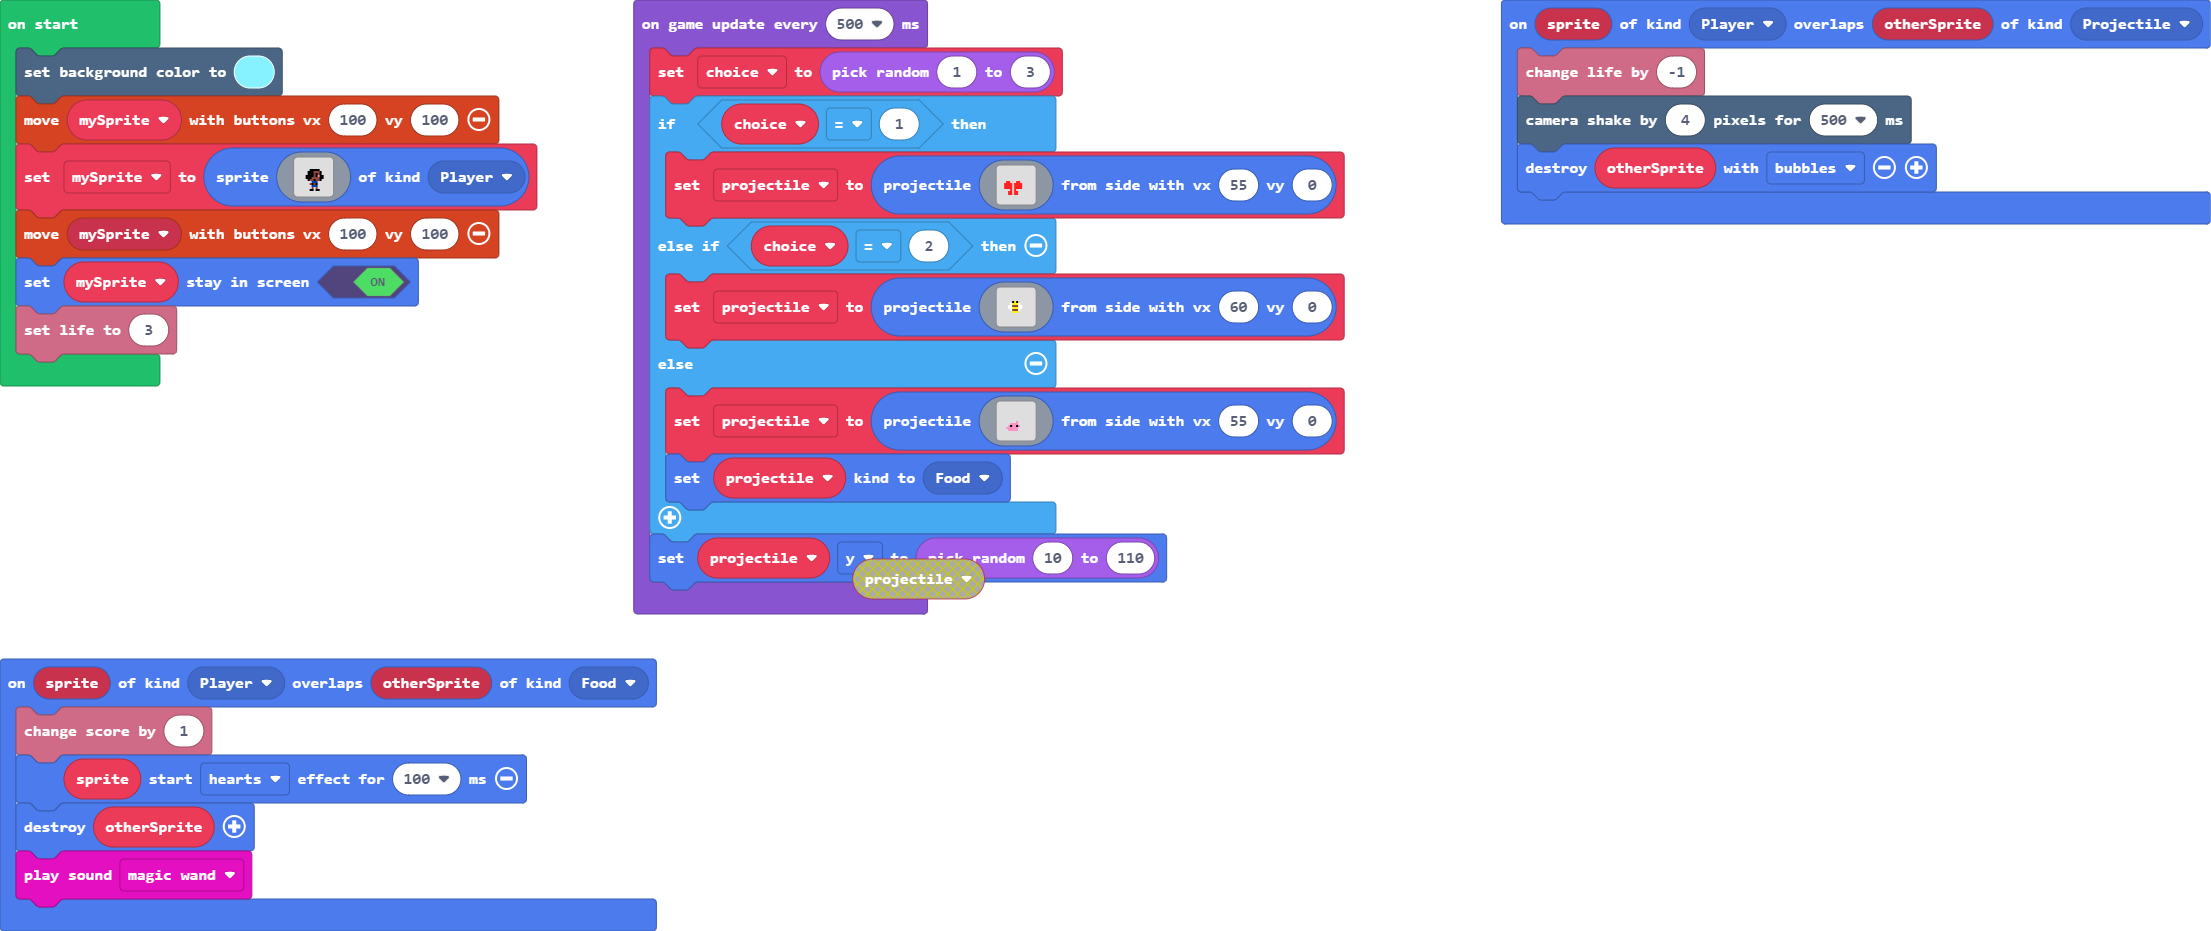
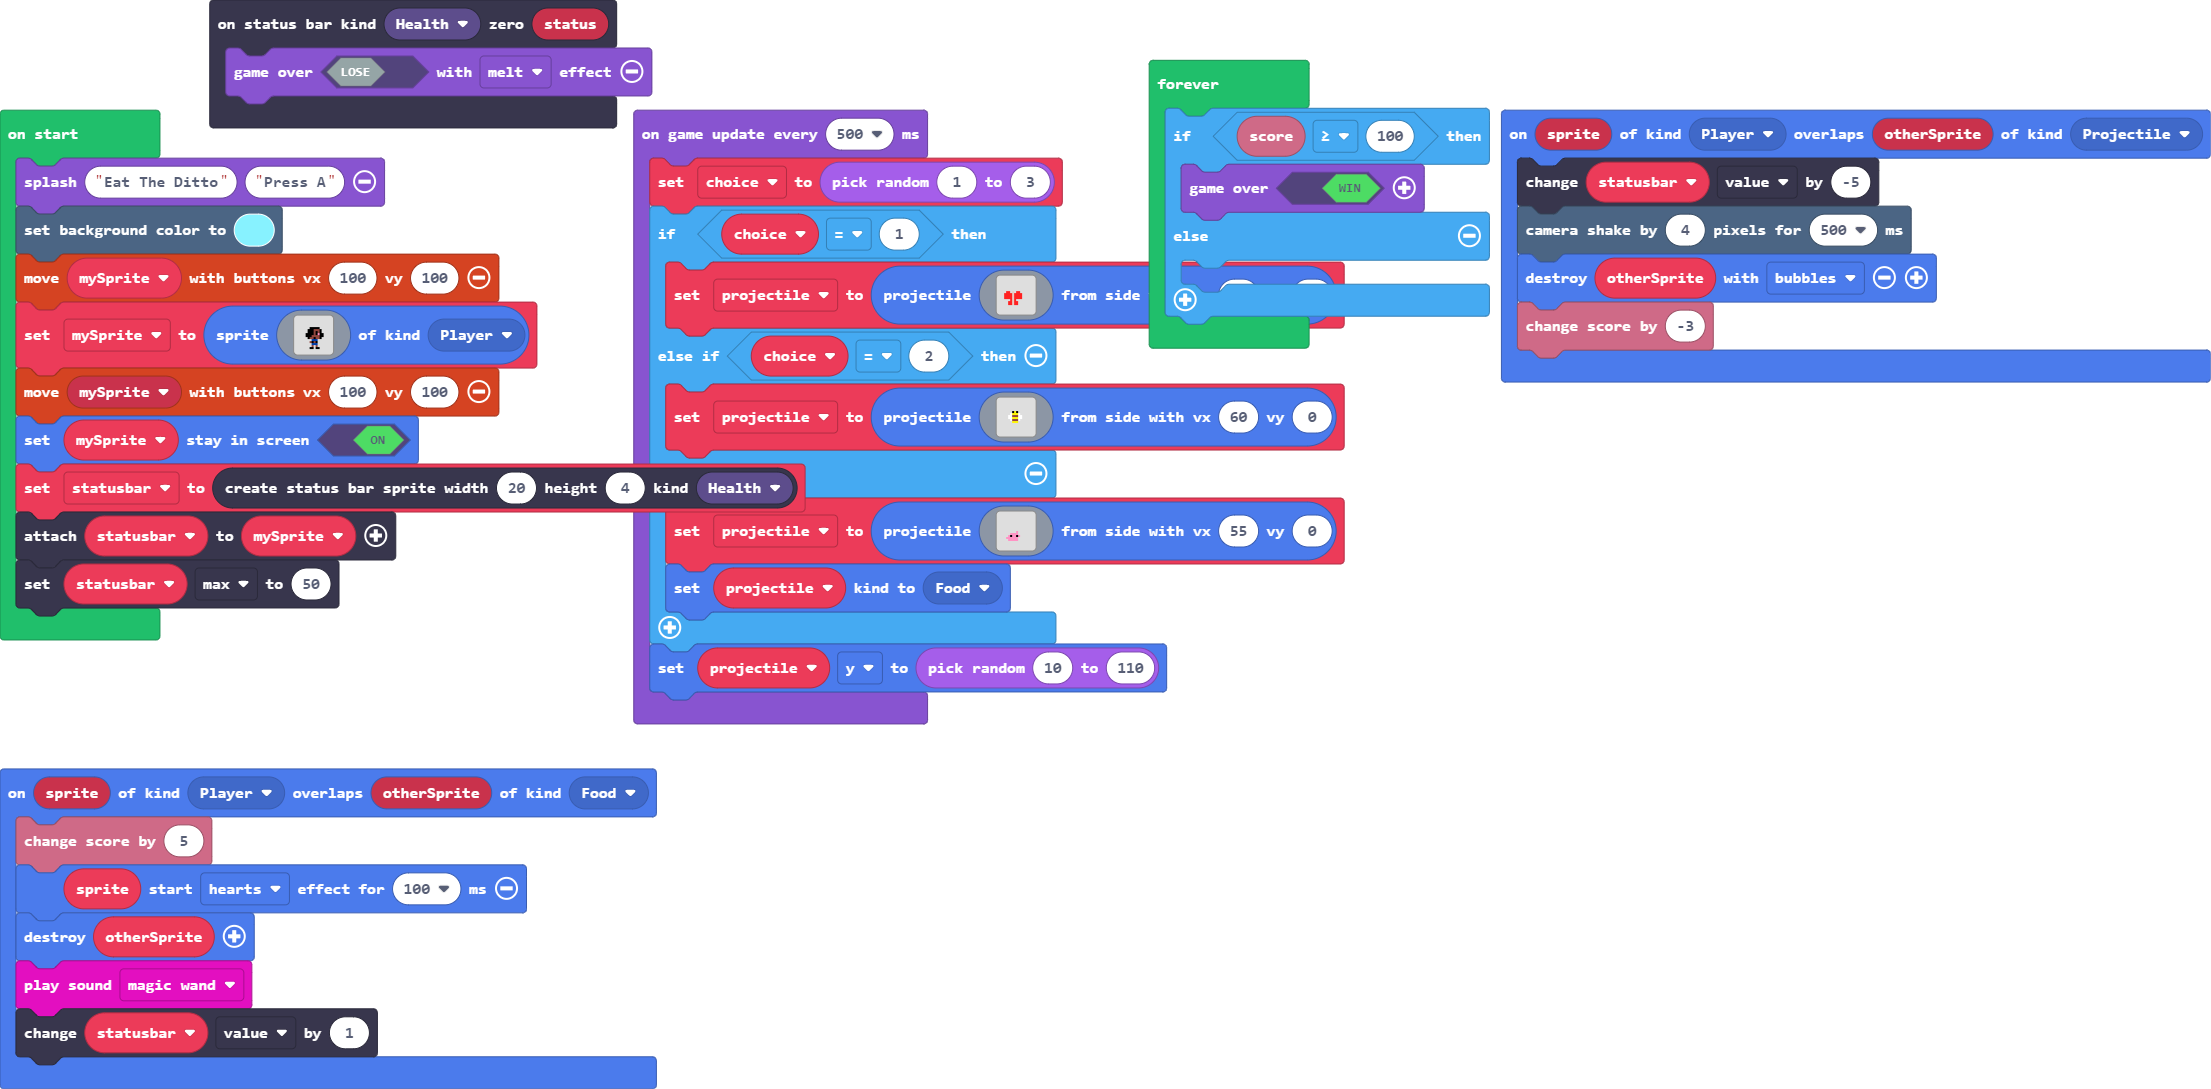
stuff done leave me aloneees

diff --git a/main.ts b/main.ts
@@ -1,20 +1,27 @@
 namespace SpriteKind {
     export const powerup = SpriteKind.create()
 }
+statusbars.onZero(StatusBarKind.Health, function (status) {
+    game.over(false, effects.melt)
+})
 sprites.onOverlap(SpriteKind.Player, SpriteKind.Projectile, function (sprite, otherSprite) {
-    info.changeLifeBy(-1)
+    statusbar.value += -5
     scene.cameraShake(4, 500)
     otherSprite.destroy(effects.bubbles)
+    info.changeScoreBy(-3)
 })
 sprites.onOverlap(SpriteKind.Player, SpriteKind.Food, function (sprite, otherSprite) {
-    info.changeScoreBy(1)
+    info.changeScoreBy(5)
     sprite.startEffect(effects.hearts, 100)
     otherSprite.destroy()
     music.magicWand.play()
+    statusbar.value += 1
 })
 let projectile: Sprite = null
 let choice = 0
+let statusbar: StatusBarSprite = null
 let mySprite: Sprite = null
+game.splash("Eat The Ditto", "Press A")
 scene.setBackgroundColor(9)
 controller.moveSprite(mySprite, 100, 100)
 mySprite = sprites.create(img`
@@ -37,7 +44,16 @@ mySprite = sprites.create(img`
     `, SpriteKind.Player)
 controller.moveSprite(mySprite, 100, 100)
 mySprite.setStayInScreen(true)
-info.setLife(3)
+statusbar = statusbars.create(20, 4, StatusBarKind.Health)
+statusbar.attachToSprite(mySprite)
+statusbar.max = 50
+forever(function () {
+    if (info.score() >= 100) {
+        game.over(true)
+    } else {
+    	
+    }
+})
 game.onUpdateInterval(500, function () {
     choice = randint(1, 3)
     if (choice == 1) {
